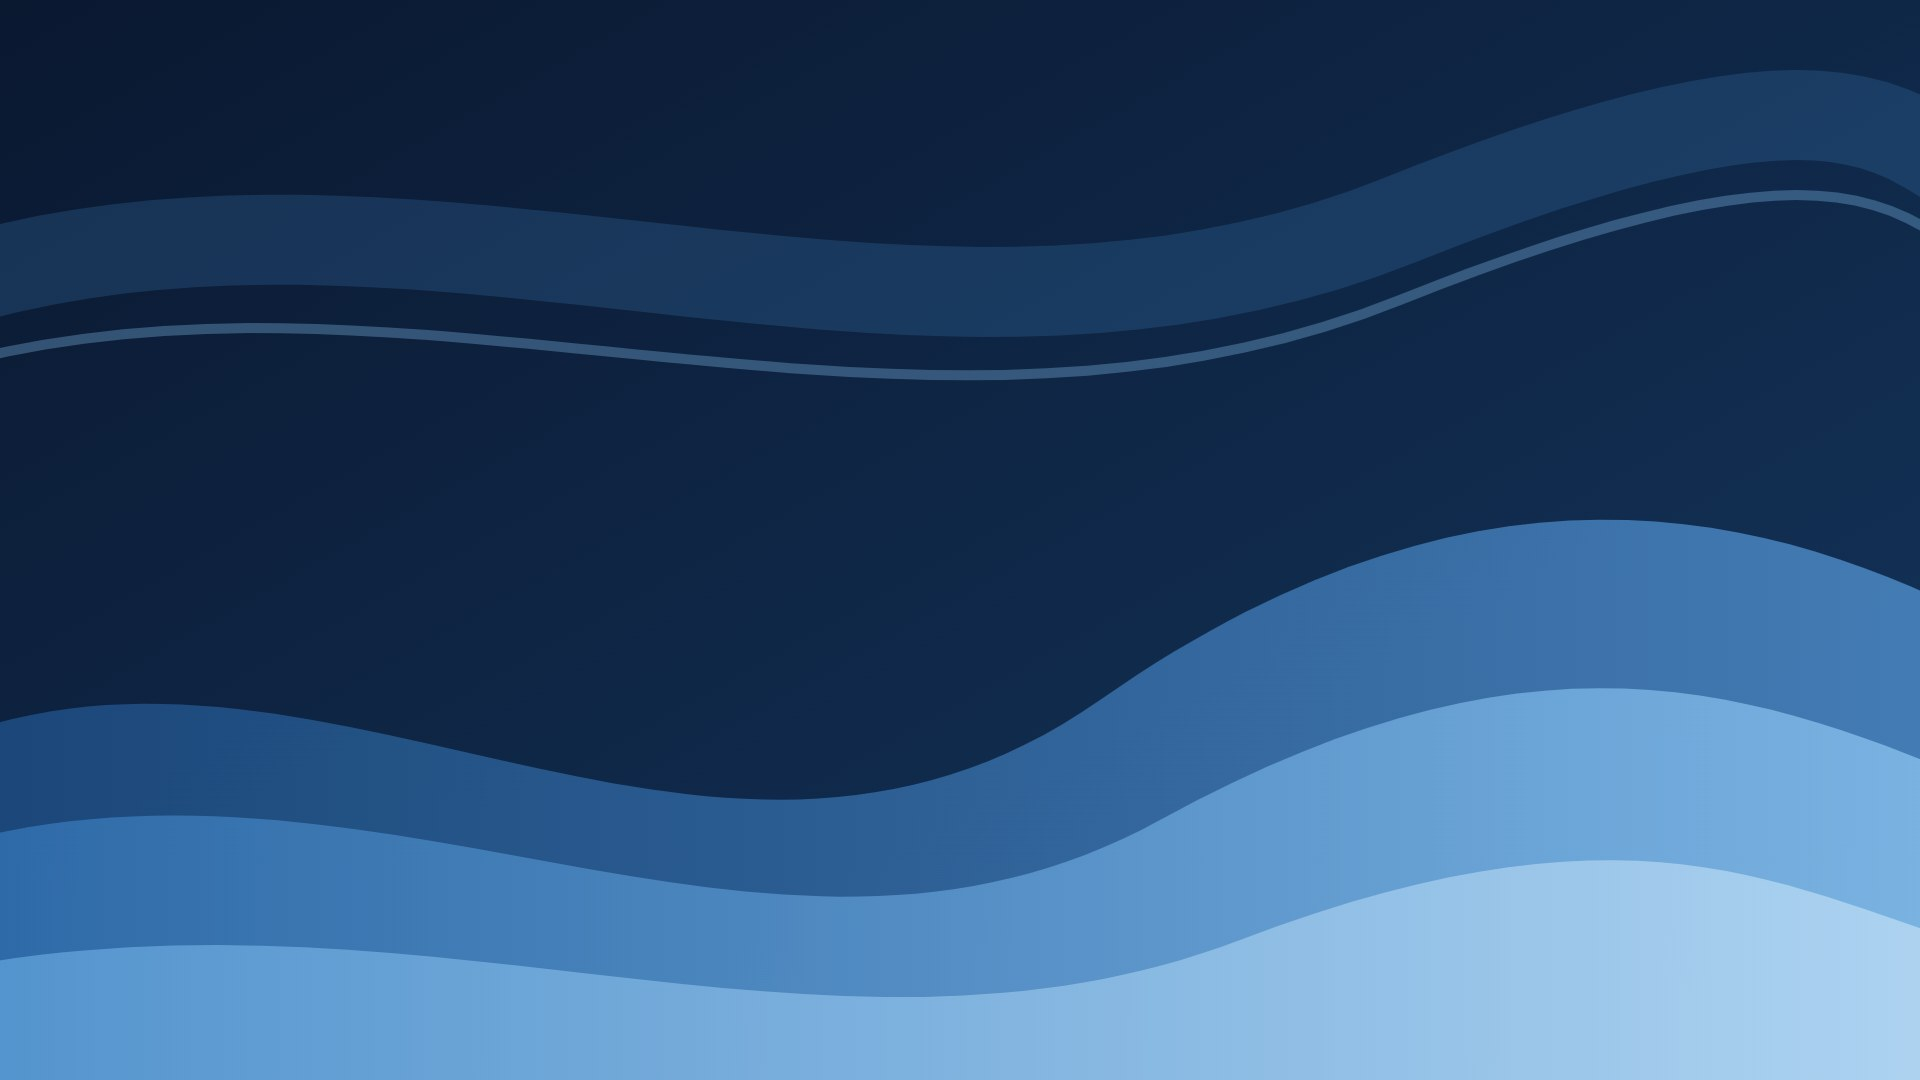
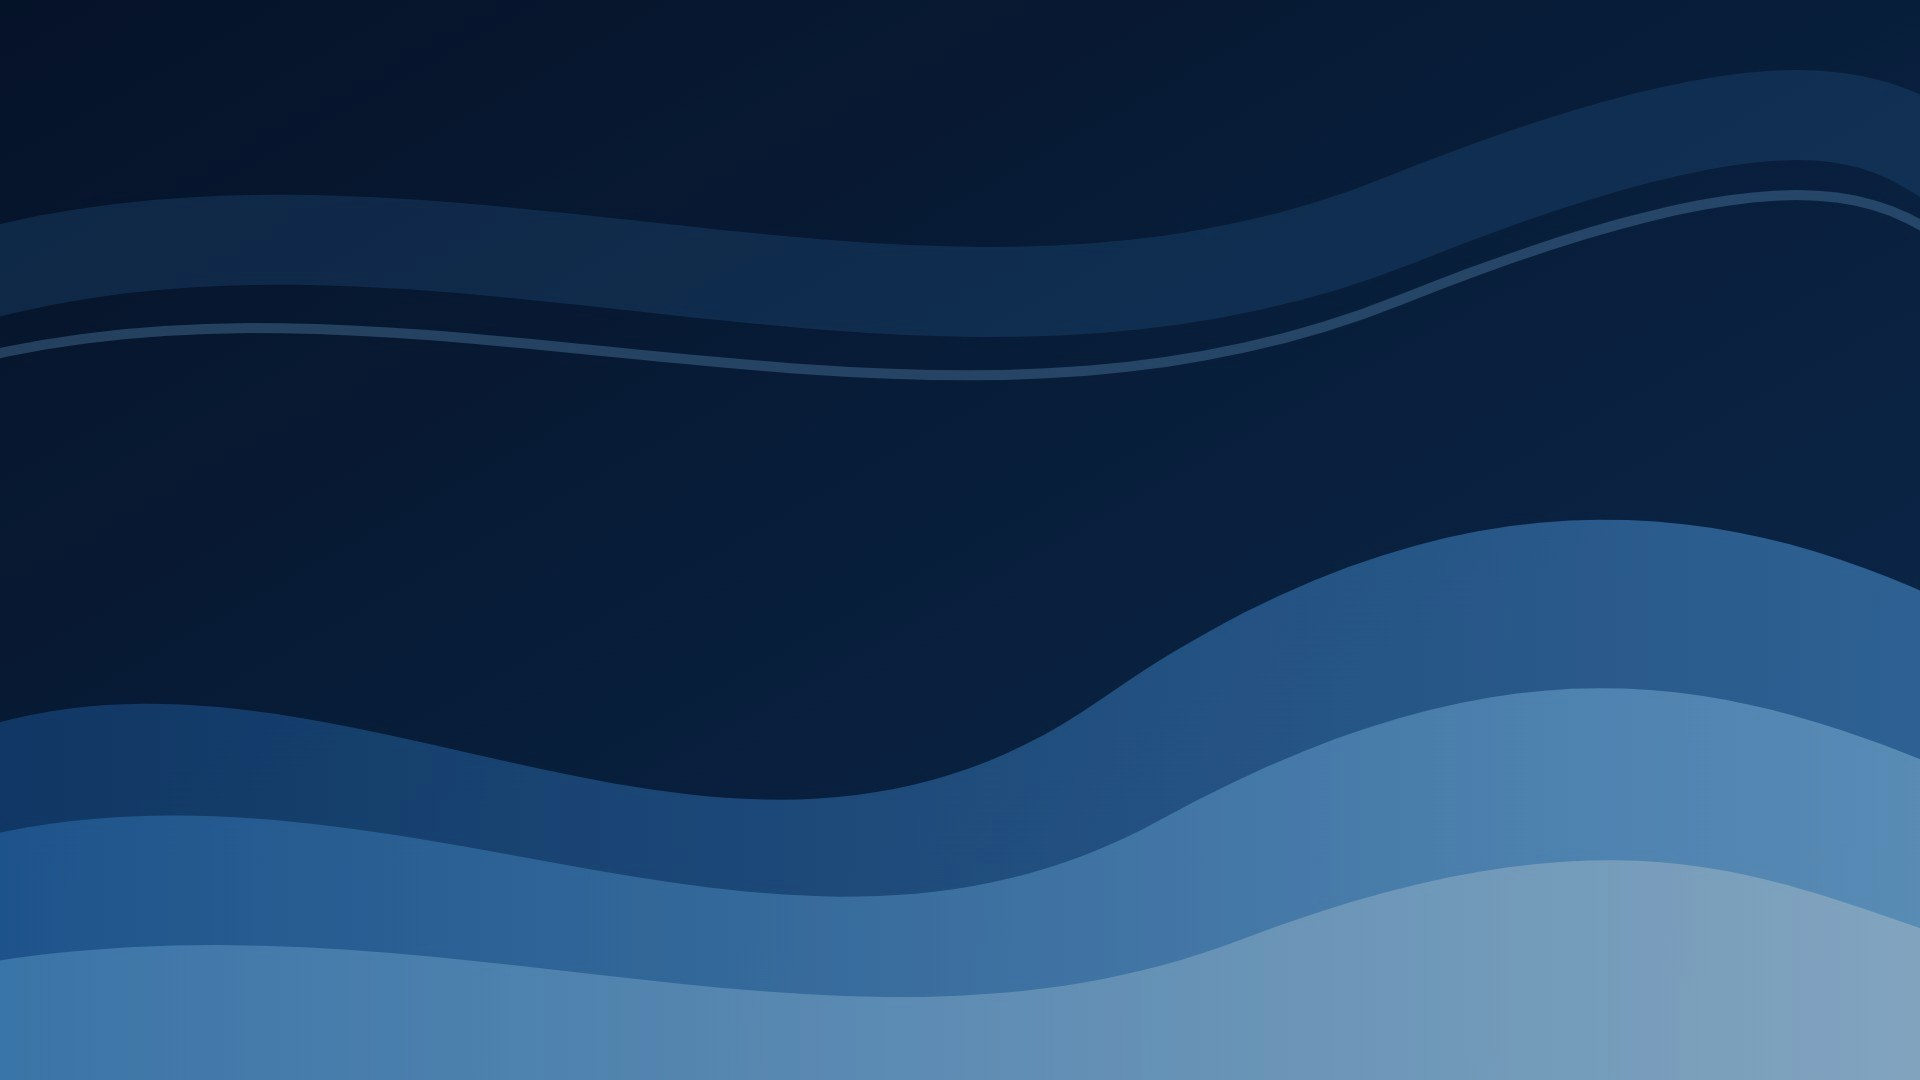
style(web): vidro azul-marinho liso e fundo mais escuro
Menos transparência e sem degradê: mais contraste na tela da TV,
que desenha a interface em 1080p e deixava o vidro claro lavado.

diff --git a/web/home.css b/web/home.css
@@ -191,9 +191,8 @@ button { font: inherit; color: inherit; background: none; border: 0; padding: 0;
 .round.last .tip { left: auto; right: -10px; margin-left: 0; text-align: right; }
 .round.focus .tip { opacity: 1; }
 .night .round {
-  background: -webkit-linear-gradient(-45deg, rgba(255, 255, 255, 0.2), rgba(255, 255, 255, 0.06) 45%, rgba(255, 255, 255, 0.1));
-  background: linear-gradient(135deg, rgba(255, 255, 255, 0.2), rgba(255, 255, 255, 0.06) 45%, rgba(255, 255, 255, 0.1));
-  box-shadow: 0 8px 22px rgba(2, 12, 32, 0.3), inset 1.5px 1.5px 0 rgba(255, 255, 255, 0.7), inset -1px -1px 0 rgba(255, 255, 255, 0.3);
+  background: rgba(8, 20, 42, 0.78);
+  box-shadow: 0 6px 16px rgba(0, 6, 20, 0.35), inset 0 1.5px 0 rgba(255, 255, 255, 0.28), inset 0 0 0 1px rgba(255, 255, 255, 0.1);
   color: #FFF;
 }
 .night .round.focus { background: rgba(255, 255, 255, 0.92); color: #0A1830; }
@@ -301,9 +300,8 @@ button { font: inherit; color: inherit; background: none; border: 0; padding: 0;
   box-shadow: 0 18px 40px rgba(0, 0, 0, 0.12), inset 0 1.5px 0 rgba(255, 255, 255, 0.95), inset 0 0 0 1px rgba(255, 255, 255, 0.55);
 }
 .night #platter {
-  background: -webkit-linear-gradient(-75deg, rgba(255, 255, 255, 0.16), rgba(255, 255, 255, 0.05) 40%, rgba(255, 255, 255, 0.08));
-  background: linear-gradient(165deg, rgba(255, 255, 255, 0.16), rgba(255, 255, 255, 0.05) 40%, rgba(255, 255, 255, 0.08));
-  box-shadow: 0 16px 36px rgba(2, 12, 32, 0.32), inset 2px 2px 0 rgba(255, 255, 255, 0.55), inset -1.5px -1.5px 0 rgba(255, 255, 255, 0.25);
+  background: rgba(8, 20, 42, 0.72);
+  box-shadow: 0 10px 24px rgba(0, 6, 20, 0.35), inset 0 1.5px 0 rgba(255, 255, 255, 0.24), inset 0 0 0 1px rgba(255, 255, 255, 0.08);
 }
 
 #tiles {
@@ -376,9 +374,8 @@ button { font: inherit; color: inherit; background: none; border: 0; padding: 0;
   box-shadow: 0 10px 30px rgba(0, 0, 0, 0.1), inset 0 1.5px 0 rgba(255, 255, 255, 0.95), inset 0 0 0 1px rgba(255, 255, 255, 0.5);
 }
 .night .glass {
-  background: -webkit-linear-gradient(-60deg, rgba(255, 255, 255, 0.17), rgba(255, 255, 255, 0.06) 45%, rgba(255, 255, 255, 0.09));
-  background: linear-gradient(150deg, rgba(255, 255, 255, 0.17), rgba(255, 255, 255, 0.06) 45%, rgba(255, 255, 255, 0.09));
-  box-shadow: 0 10px 28px rgba(2, 12, 32, 0.3), inset 1.5px 1.5px 0 rgba(255, 255, 255, 0.6), inset -1px -1px 0 rgba(255, 255, 255, 0.25);
+  background: rgba(8, 20, 42, 0.78);
+  box-shadow: 0 6px 16px rgba(0, 6, 20, 0.35), inset 0 1.5px 0 rgba(255, 255, 255, 0.24), inset 0 0 0 1px rgba(255, 255, 255, 0.08);
 }
 
 .key {
